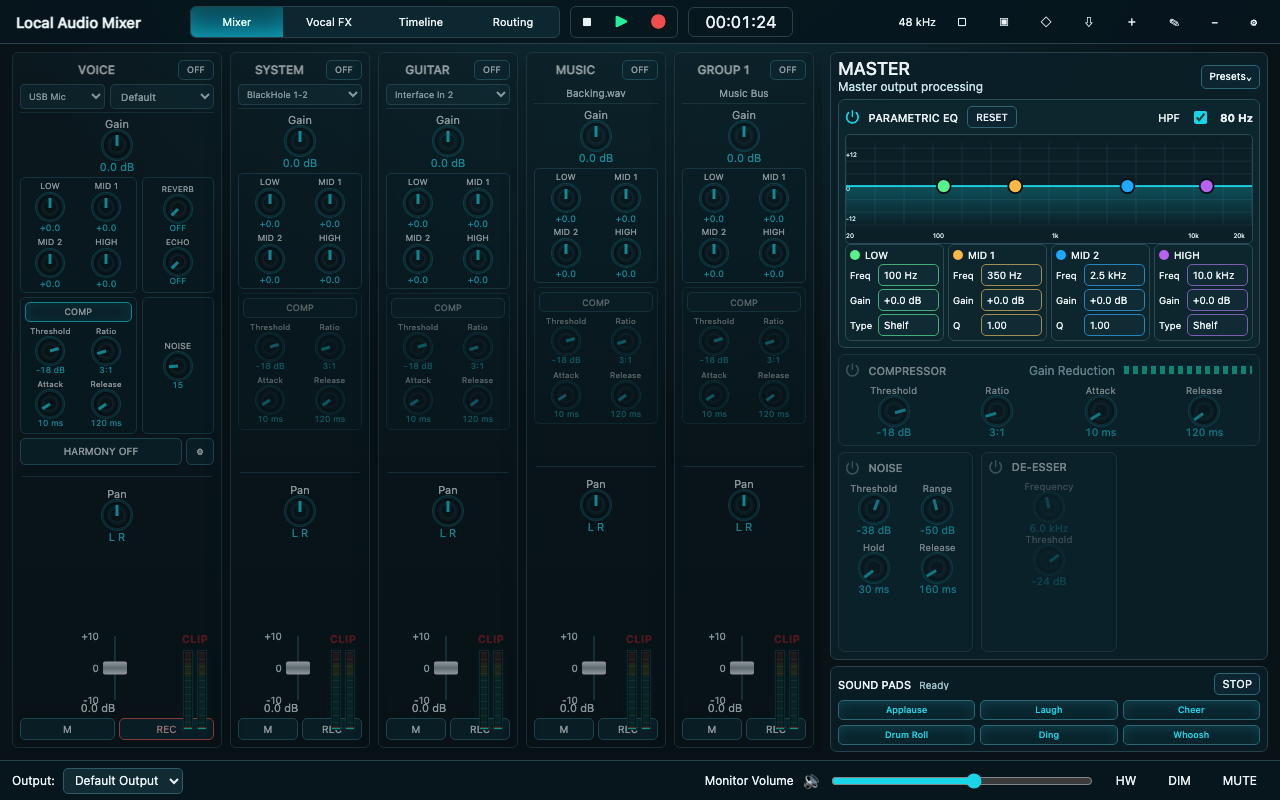
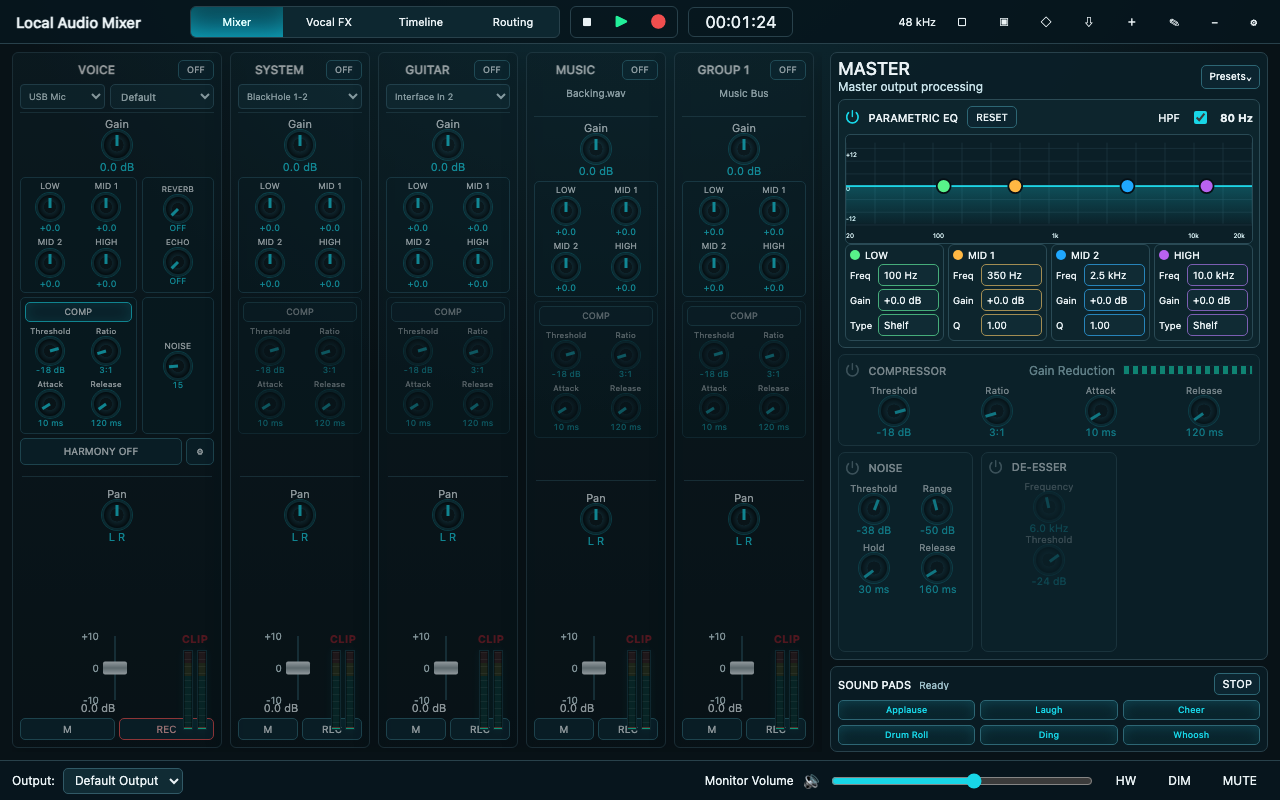
Align channel strip headers

diff --git a/apps/desktop/src/styles/app.css b/apps/desktop/src/styles/app.css
@@ -78,7 +78,8 @@
 .channel-header-controls.has-preset { grid-template-columns: minmax(0, 0.9fr) minmax(0, 1.1fr); }
 .channel-header-controls .channel-source-select,
 .channel-header-controls .channel-insert-preset { margin-top: 0; }
-.channel-source-select { width: 100%; min-height: 21px; margin-top: 4px; color: #dff4f8; background: #102b34; border: 1px solid #315966; border-radius: 4px; padding: 0 4px; font-size: 9px; font-weight: 380; }
+.channel-header-controls span { min-height: 25px; display: flex; align-items: center; justify-content: center; margin-top: 0; }
+.channel-source-select { width: 100%; min-height: 25px; margin-top: 4px; color: #dff4f8; background: #102b34; border: 1px solid #315966; border-radius: 4px; padding: 0 4px; font-size: 9px; font-weight: 380; }
 .processing-buttons { display: grid; gap: 5px; }
 .processing-buttons .ui-button:not(.is-active) { color: #8faeb7; border-color: #214957; background: #09222b; box-shadow: inset 3px 0 0 rgba(95, 126, 137, 0.28); }
 .processing-buttons .ui-button.is-active { text-shadow: 0 0 7px rgba(24, 214, 231, 0.36); }

diff --git a/docs/progress.md b/docs/progress.md
@@ -4833,3 +4833,27 @@ Validation:
 
 Known limitations:
 - Manual hardware confirmation of the framed EQ layout in the live desktop app is `NOT_RUN`.
+
+### Phase19 UX Checkpoint — Align Channel Strip Headers
+
+Changed files:
+- `apps/desktop/src/styles/app.css`: aligns source/input header controls across VOICE, SYSTEM, GUITAR, MUSIC, and GROUP strips.
+- `docs/progress.md`: records verification evidence.
+
+Implemented behavior:
+- Non-VOICE channel source controls now match the VOICE header control height.
+- Channels that show source text instead of a select control reserve the same 25px header height.
+- The mixer strips should no longer appear slightly shifted upward relative to VOICE.
+
+Validation:
+- command: `npm run typecheck`
+- exit/result: `0`; TypeScript passed.
+- command: `npm run test:visual`
+- exit/result: `0`; Playwright visual suite 6/6 passed.
+- command: `npm run check:file-size`
+- exit/result: `0`; file-size check passed with the existing `MixerPage.tsx 837` warning.
+- command: `npm run verify`
+- exit/result: `0`; plan, file-size, architecture, typecheck, Vitest 55/55, native CTest 43/43, engine self-test, device enumeration smoke, protocol smoke, UI build, and Electron main/preload build passed.
+
+Known limitations:
+- Manual hardware confirmation of the strip alignment in the live desktop app is `NOT_RUN`.
